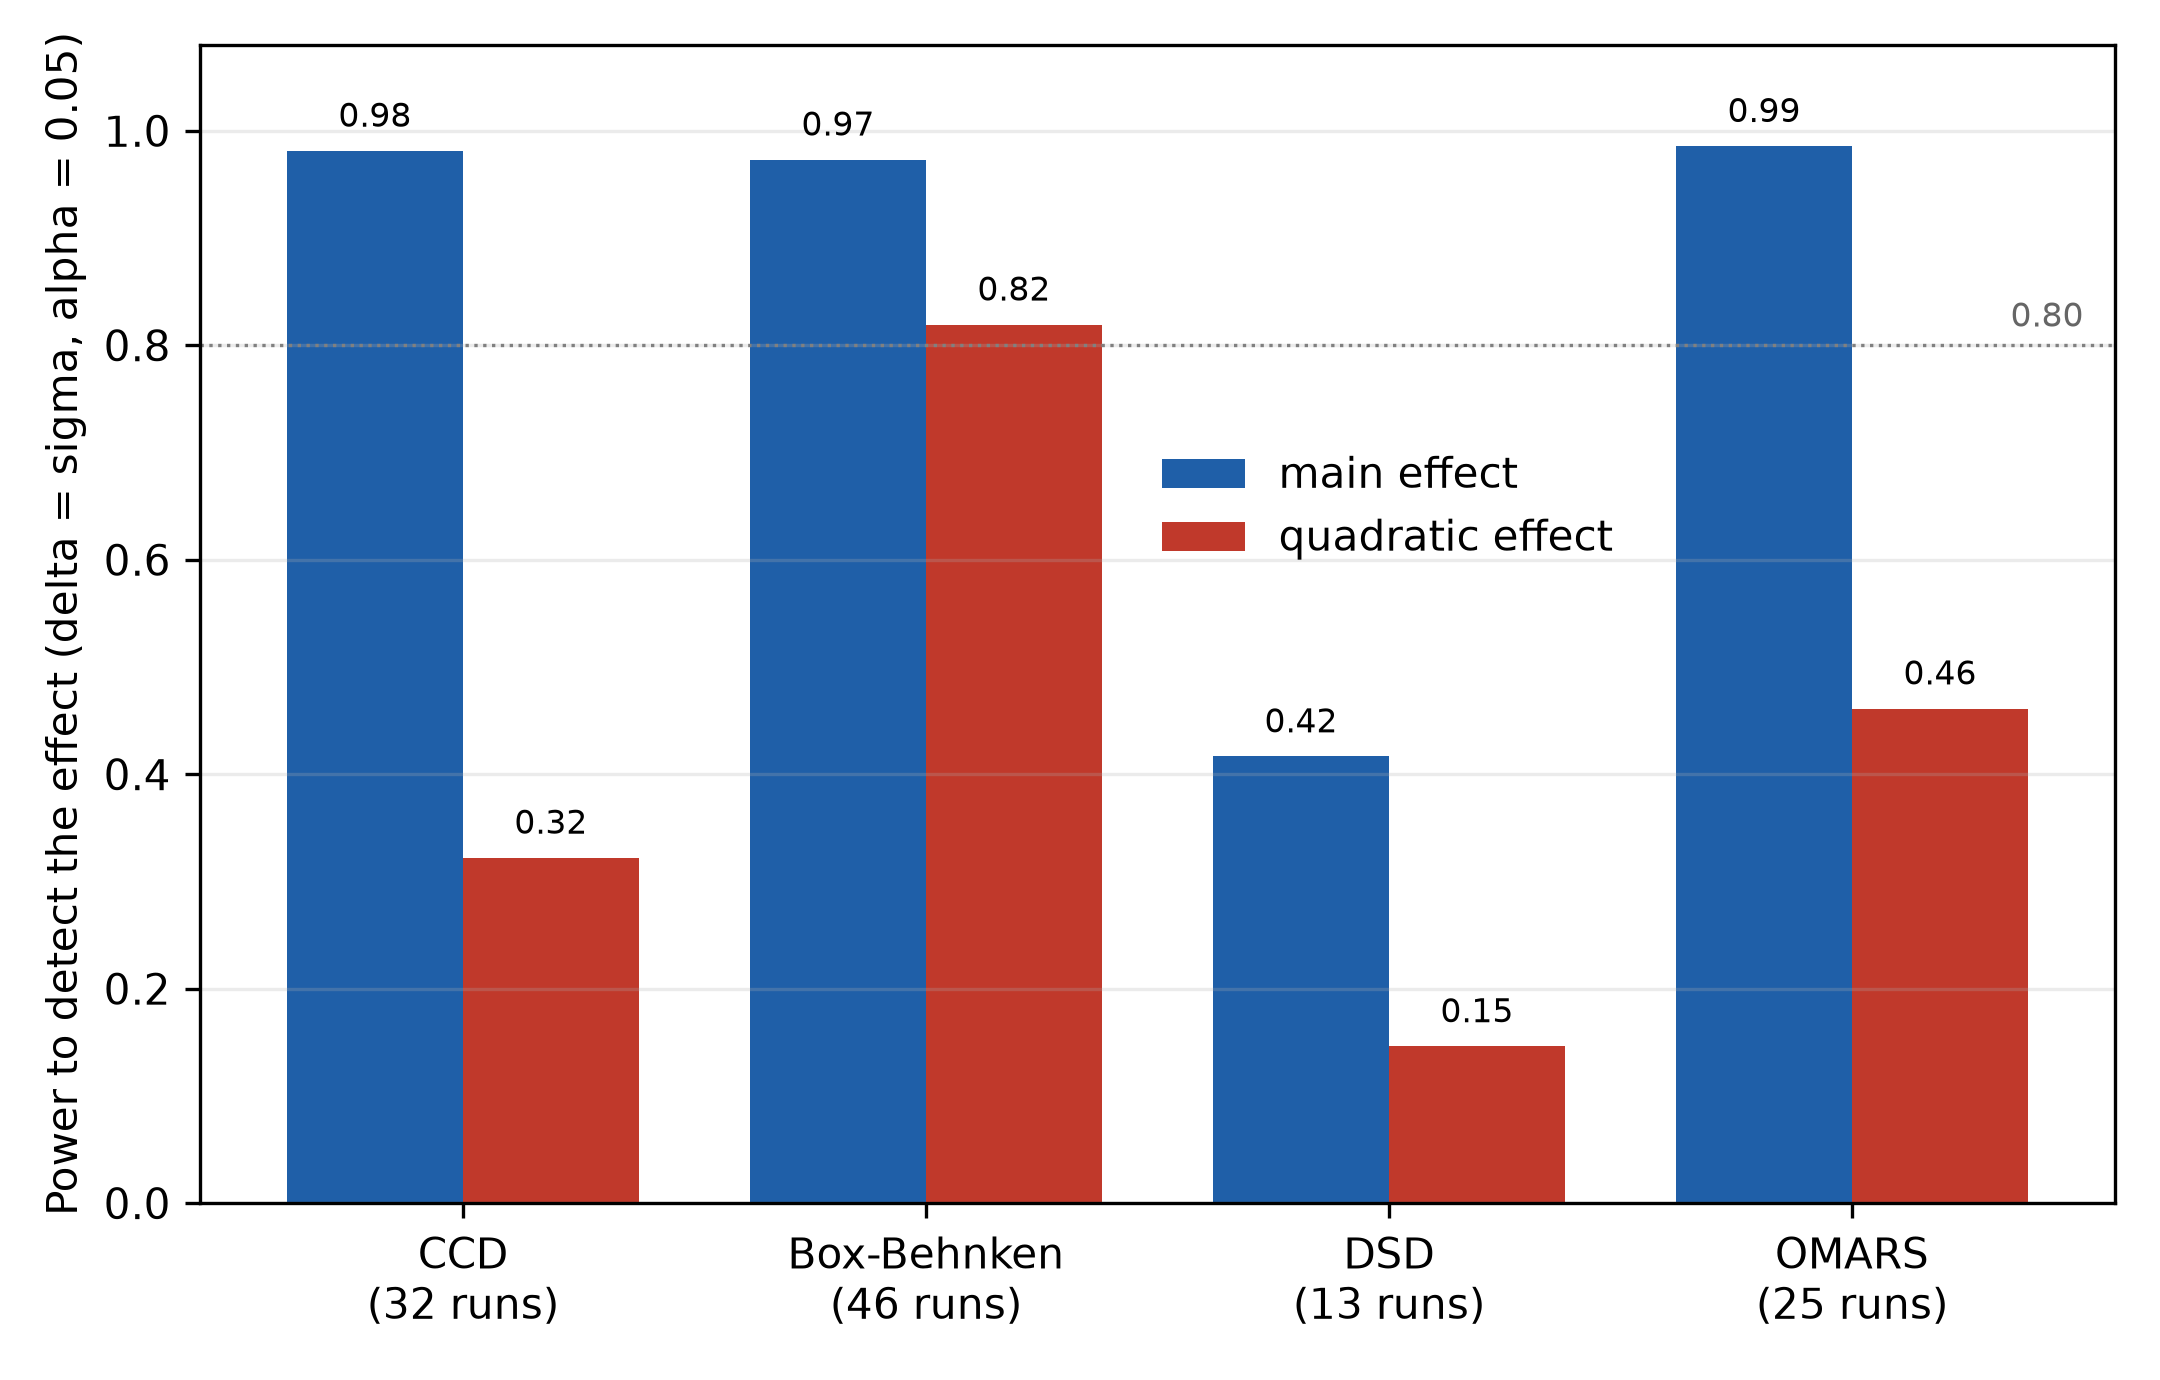
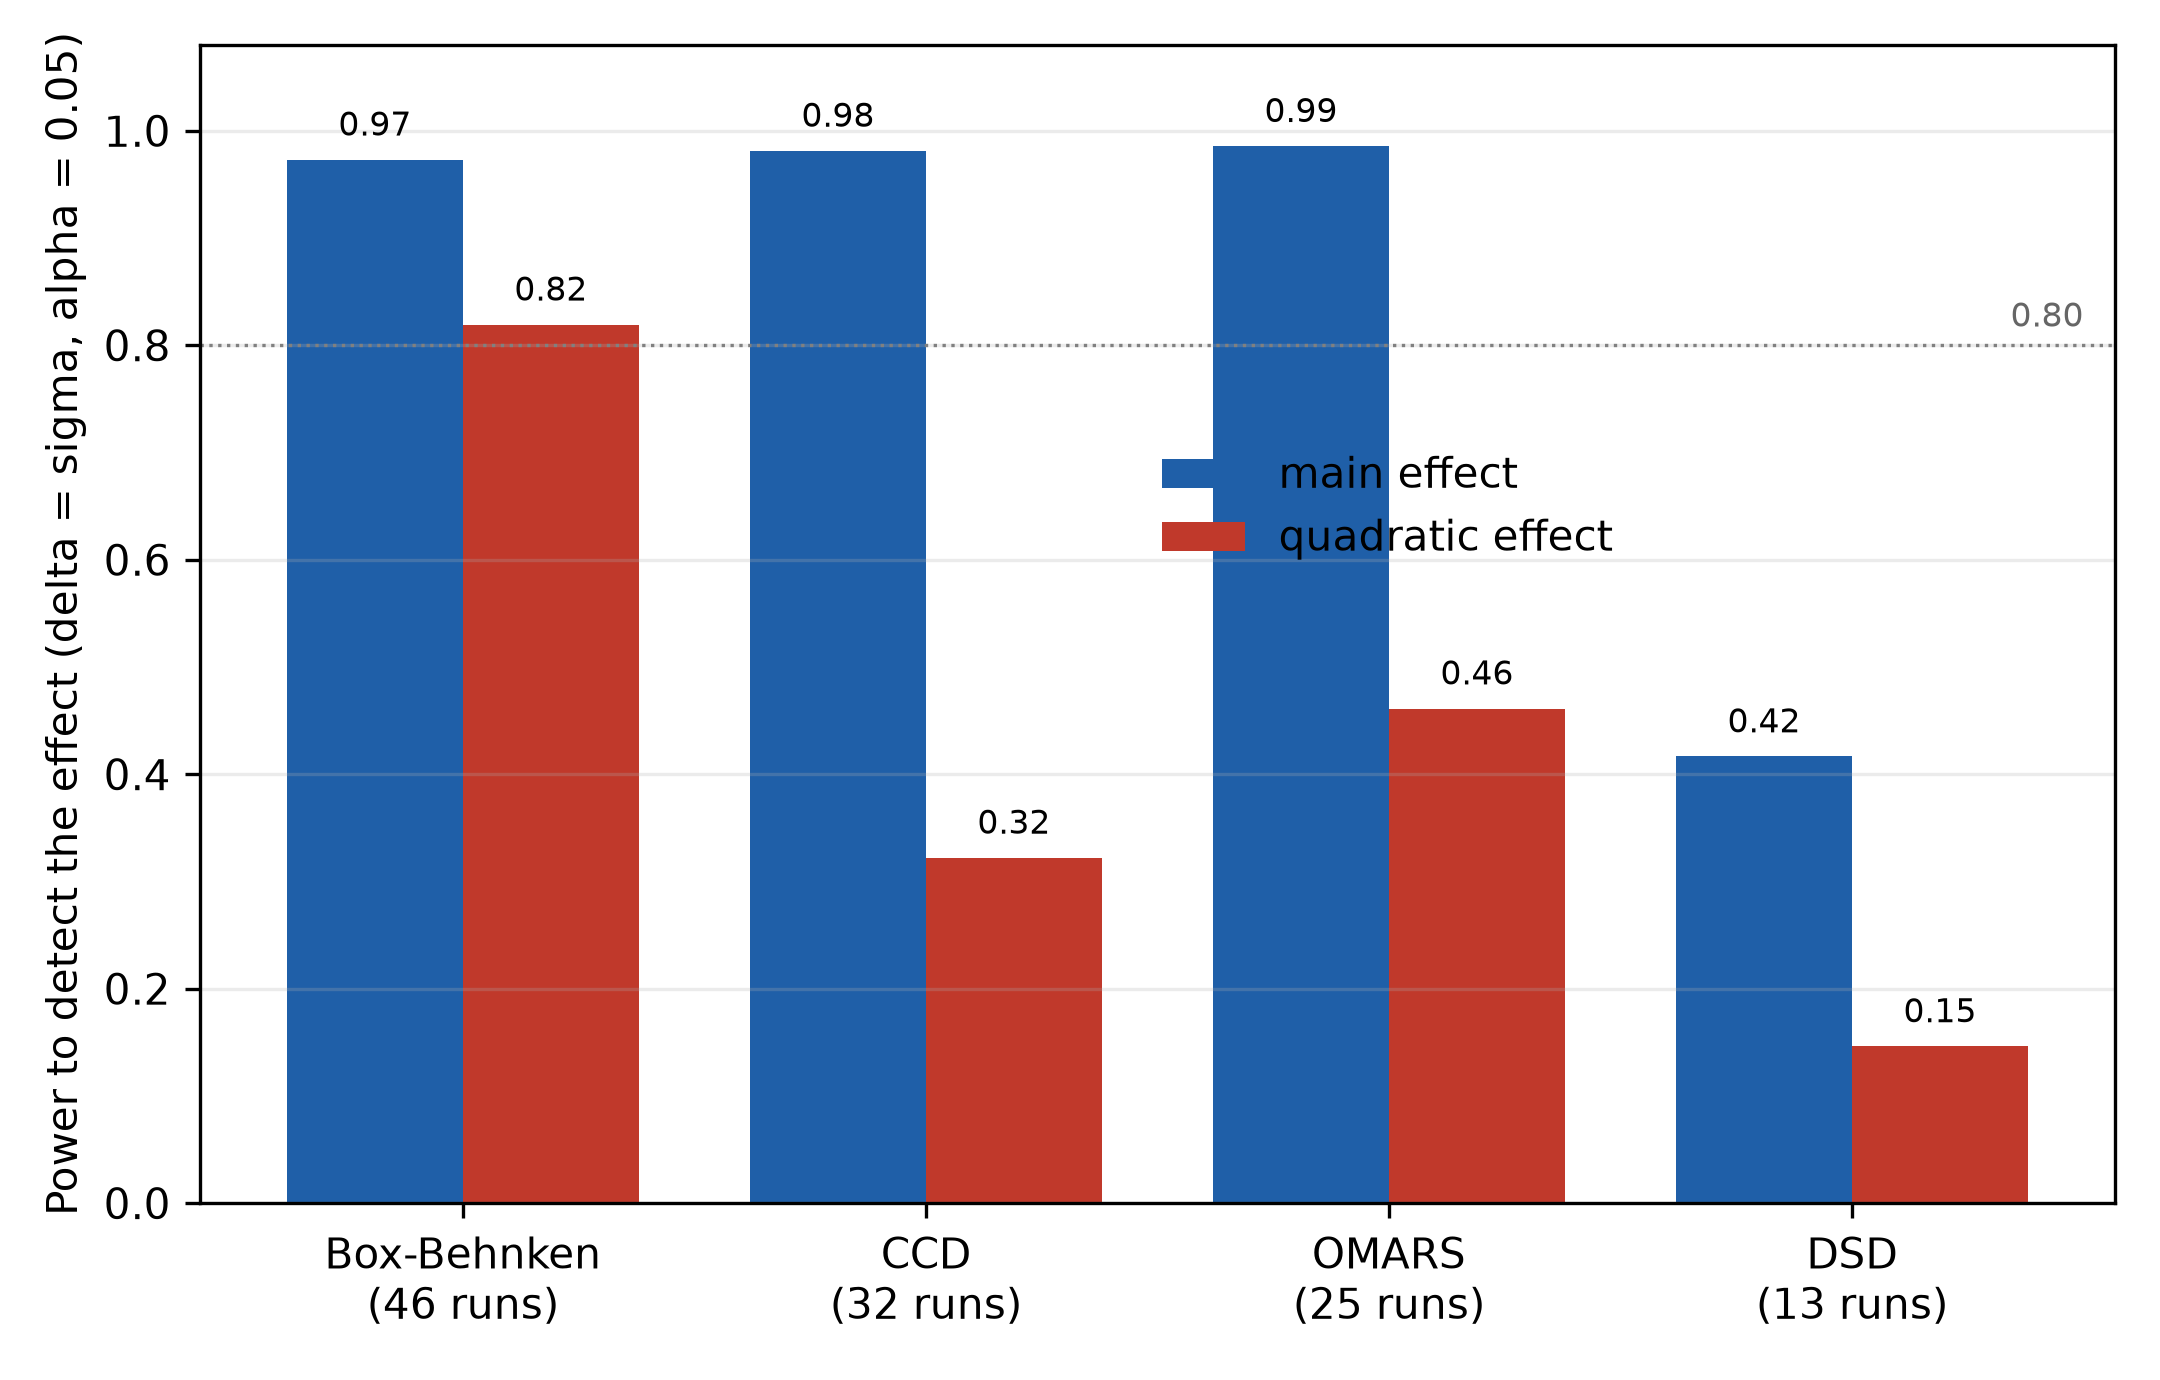
Order the design comparison figures largest-to-smallest by run count
The omnibus comparison table in the chapter was reordered to run from the
most to the fewest experiments (Box-Behnken 46, CCD 32, OMARS 25, DSD 13),
but the shared RSM_DESIGNS list still drove the figures and checker in the
old order. Reorder the list to match the table, so the power bar graph's
x-axis, the FDS figure's legend, and the check_omnibus column order all read
largest-to-smallest. Display order only: no numbers, curves, or colours
change (the FDS styles are keyed by design name). Both PNGs regenerated.

Claude-Session: https://claude.ai/code/session_012AveFGDuwLHBJ9SRD2aak3

diff --git a/doe/omnibus_designs.py b/doe/omnibus_designs.py
@@ -111,8 +111,9 @@ def build_designs():
 
 
 # Display metadata for the four response-surface-capable designs (the factorials cannot
-# fit the quadratic model, so they are excluded from the quality comparison).
-RSM_DESIGNS = ["ccd", "bbd", "dsd", "omars"]
+# fit the quadratic model, so they are excluded from the quality comparison). Ordered
+# largest-to-smallest by run count, matching the comparison table in the chapter.
+RSM_DESIGNS = ["bbd", "ccd", "omars", "dsd"]
 LABELS = {
     "full": "full factorial, 2^5 + 2c",
     "frac": "fractional, 2^(5-1) + 2c",
